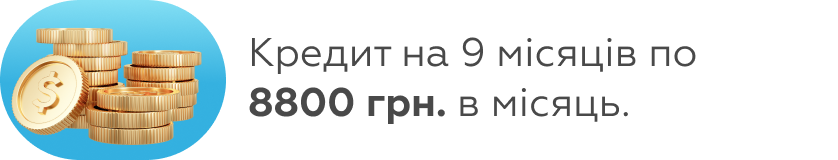
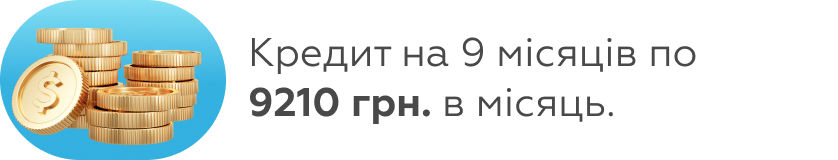
updatePrice&Img

Changed region(s): [[0.2792, 0.5312, 0.7446, 0.7812]]

diff --git a/index.html b/index.html
@@ -75,16 +75,10 @@
           </p>
 
           <div class="pop-up-row" style="margin: 10px 10px">
-            <a href="tel:0800337592" class="footer-column-row">
+            <a href="tel:0986968319" class="footer-column-row">
               <img src="icons/phone-black.svg" alt="" class="footer-column-row-icon" />
               <p class="footer-column-row-text" style="color: #000">
-                080 033 75 92
-              </p>
-            </a>
-            <a href="tel:+380974597557" class="footer-column-row">
-              <img src="icons/phone-black.svg" alt="" class="footer-column-row-icon" />
-              <p class="footer-column-row-text" style="color: #000">
-                +38 097 459 75 57
+                098 696 8319
               </p>
             </a>
           </div>
@@ -204,7 +198,7 @@
             <span class="bold">завжди була електрика?</span> -->
           </h2>
           <p class="header-content-text-info">
-            Рішення є! За <span class="bold">69 000</span> грн. у вас
+            Рішення є! За <span class="bold">74 000</span> грн. у вас
             буде постійно працювати холодильник, освітлення, інтернет,
             комп'ютер і телевізор
           </p>
@@ -627,7 +621,7 @@
               <p class="order-now-card-text">
                 <!-- В наявності також є літій залізо фосфатні акумулятори. Ціну на
                 них окремо уточнюйте -->
-                Літій-залізо-фосфатний акумулятор 12V; 3,7 квт/год.
+                Літій-залізо-фосфатний акумулятор 12V; 3,7 кВт/год.
               </p>
             </div>
 
@@ -649,7 +643,9 @@
             <div class="order-now-card-all-text-row">
               <img src="icons/succes-main.svg" alt="" class="order-now-card-text-icon" />
               <p class="order-now-card-text">
-                Можна вмикати будь - які інші прилади, що споживають не більше 1 кВт.
+                Дана система має 3,7 кВт потужності, що дозволить безперервно працювати холодильнику, інтернету, комп'ютеру, телевізору, освітленню протягом 6 годин. Можна вмикати будь які інші побутові прилади, що споживають не більше 1 кВт.
+
+
               </p>
             </div>
 
@@ -660,13 +656,13 @@
 
             <div class="order-now-card-all-text-row">
               <img src="icons/succes-main.svg" alt="" class="order-now-card-text-icon" />
-              <p class="order-now-card-text">Кредит на 9 місяців по 8800 грн. в місяць.</p>
+              <p class="order-now-card-text">Кредит на 9 місяців по 9210 грн. в місяць.</p>
             </div>
           </div>
 
-          <div class="order-now-card-price" style="margin-top: 155px;">
-            <p class="order-now-card-price-old">79 000 грн</p>
-            <p class="order-now-card-price-now">69 000 грн</p>
+          <div class="order-now-card-price" style ="margin-top: 50px;">
+            <p class="order-now-card-price-old">84 000 грн</p>
+            <p class="order-now-card-price-now">74 000 грн</p>
           </div>
 
           <button class="order-button-standart open_pop_up" style="margin: 0 auto">
@@ -713,7 +709,7 @@
               <p class="order-now-card-text">
                 <!-- В наявності також є літій залізо фосфатні акумулятори. Ціну на
                 них окремо уточнюйте -->
-                Літій - залізо - фосфатний акумулятор 24V; 
+                Літій - залізо - фосфатний акумулятор 24V; 7,4 кВт/год. 
 
               </p>
             </div>
@@ -754,14 +750,14 @@
 
             <div class="order-now-card-all-text-row">
               <img src="icons/succes-main.svg" alt="" class="order-now-card-text-icon" />
-              <p class="order-now-card-text">Кредит на 9 місяців по 14000 грн. в місяць. </p>
+              <p class="order-now-card-text">Кредит на 9 місяців по 14310 грн. в місяць. </p>
             </div>
 
           </div>
 
           <div class="order-now-card-price" style="margin-top: 30px;">
-            <p class="order-now-card-price-old">134 000 грн</p>
-            <p class="order-now-card-price-now">110 000 грн</p>
+            <p class="order-now-card-price-old">139 000 грн</p>
+            <p class="order-now-card-price-now">115 000 грн</p>
           </div>
 
           <button class="order-button-standart open_pop_up" style="margin: 0 auto">
@@ -846,13 +842,13 @@
 
             <div class="order-now-card-all-text-row">
               <img src="icons/succes-main.svg" alt="" class="order-now-card-text-icon" />
-              <p class="order-now-card-text">Кредит на 9 місяців по 23600 грн. в місяць.</p>
+              <p class="order-now-card-text">Кредит на 9 місяців по 24750 грн. в місяць.</p>
             </div>
           </div>
 
           <div class="order-now-card-price" style="margin-top: 30px;">
-            <p class="order-now-card-price-old">215 000 грн</p>
-            <p class="order-now-card-price-now">185 000 грн</p>
+            <p class="order-now-card-price-old">240 000 грн</p>
+            <p class="order-now-card-price-now">199 000 грн</p>
           </div>
 
           <button class="order-button-standart open_pop_up" style="margin: 0 auto">
@@ -1343,10 +1339,14 @@
     <div class="foooter-container">
       <div class="footer-column">
         <h2 class="footer-column-title">Контактна інформація:</h2>
-        <div class="footer-column-row">
+        <a href="https://maps.app.goo.gl/yDJrjPyT1Rsu1AFR8" class="footer-column-row">
           <img src="icons/footer/place.svg" alt="" class="footer-column-row-icon" />
           <p class="footer-column-row-text">м. Київ, вул. Святошинська, 1</p>
-        </div>
+        </a>
+        <a href="https://maps.app.goo.gl/LYKzPSQYpi6qWdYCA" class="footer-column-row">
+          <img src="icons/footer/place.svg" alt="" class="footer-column-row-icon" />
+          <p class="footer-column-row-text">м. Одеса. вул. Балківська, 197</p>
+        </a>
         <div class="footer-column-row">
           <img src="icons/footer/web.svg" alt="" class="footer-column-row-icon" />
           <a href="https://genergo.com.ua/" class="footer-column-row-text">www.genergo.com.ua
